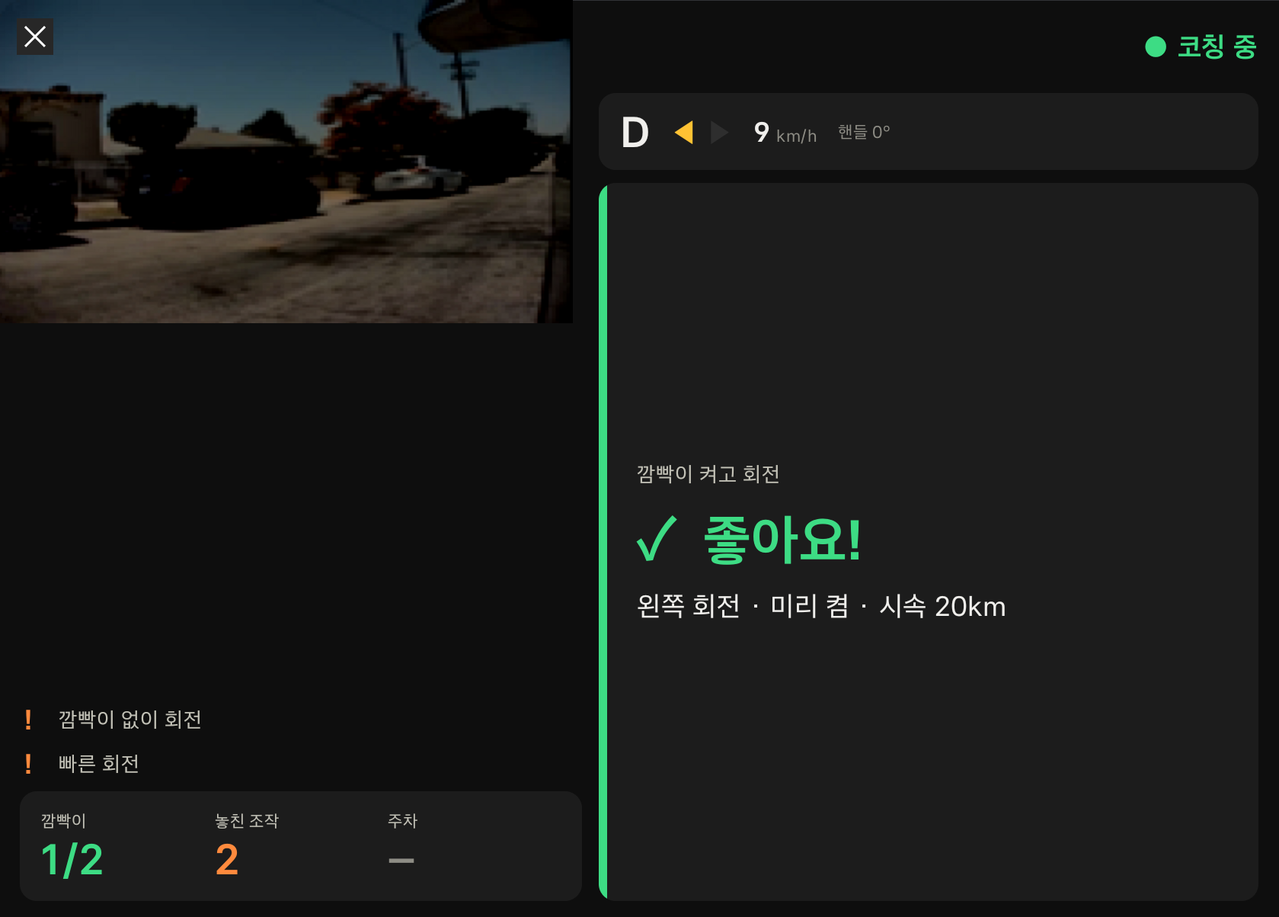
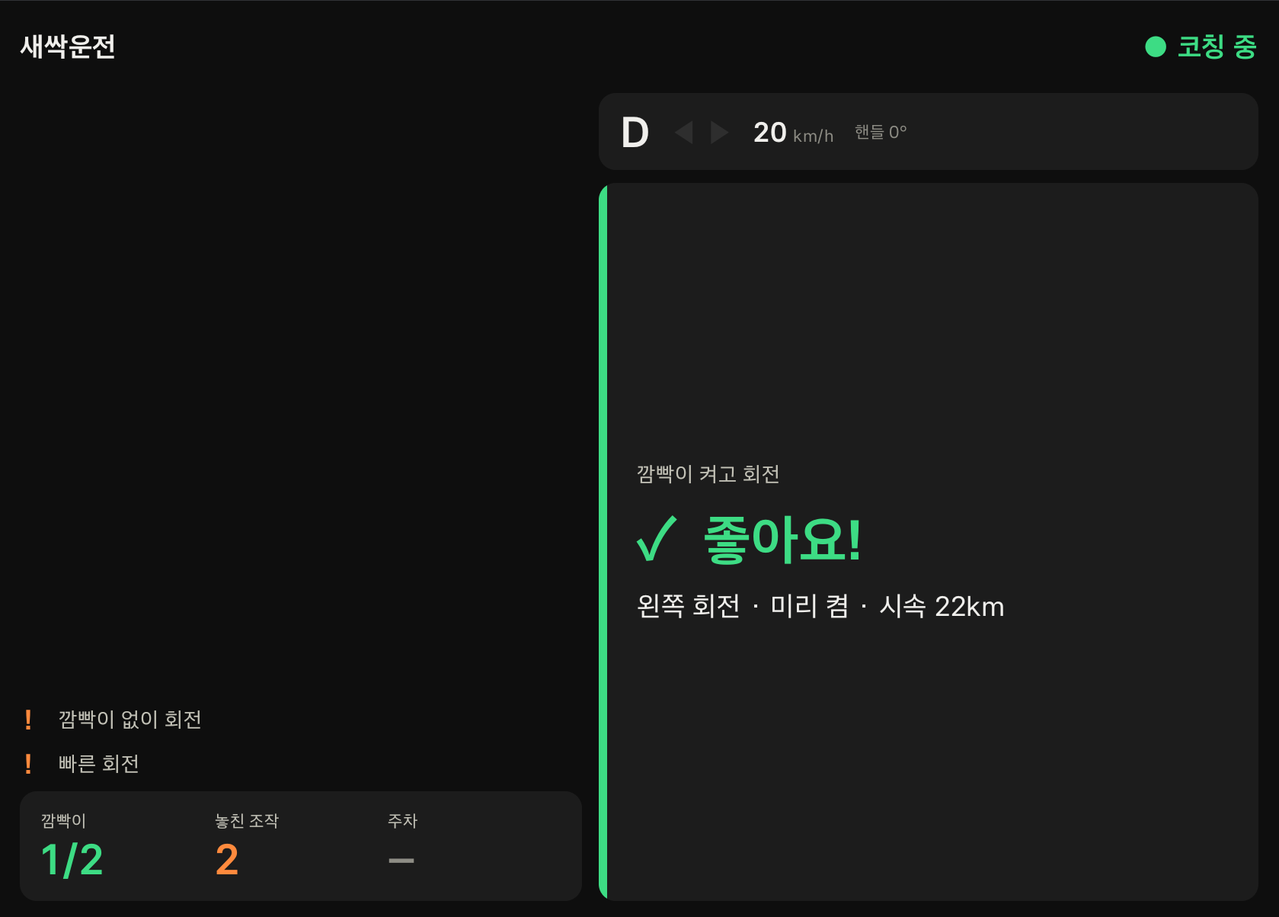
docs: new app name, APK location, application text and screenshots

diff --git a/docs/contest/접수양식-02-앱소개.md b/docs/contest/접수양식-02-앱소개.md
@@ -1,151 +1,116 @@
-# 접수양식 02 · 앱 프로젝트 소개 (초보운전 코치)
+# 접수양식 02 · 앱 프로젝트 소개 (새싹운전)
 
-> 접수양식 사본(`contest-application-초보운전코치.docx`)의 02번 항목에 들어간 내용과 같습니다.
+> 접수양식 사본(`contest-application-새싹운전.docx`)의 02번 항목에 들어간 내용과 같습니다.
 
 ## 1. 앱 한 줄 소개
 
-연수가 끝나 혼자 운전하는 초보 운전자에게, 폰으로는 알 수 없는 깜빡이·기어·핸들 조작을 차가 직접 보고 그 순간 음성으로 알려주며, 실력이 느는 과정을 숫자로 보여주는 차량 전용 운전 코치입니다.  
+연수가 끝나 혼자 운전하는 초보에게, 깜빡이·기어·핸들 조작을 차가 직접 보고 그 자리에서 말해 주는 운전 코치입니다.
 
 ## 2. 기획 배경
 
-**■ 주목한 고객: 연수가 끝난 초보 운전자**  
-- 2023년 한 해 약 88만 명이 운전면허를 새로 땄고, 그중 생애 첫 취득자가 약 57만 명입니다(전국자동차운전전문학원연합회·경찰청, 세계일보 2024.11.4 보도).  
-- 도로연수는 10시간에 평균 58만 원이 듭니다(경찰청 발표, SBS Biz 2025.12.2 보도). 대부분 몇 시간으로 끝나고, 그 뒤에는 혼자 운전합니다.  
+[주목한 고객]  
+2023년에 운전면허를 처음 딴 사람은 약 57만 명입니다(경찰청·전국자동차운전전문학원연합회, 세계일보 2024.11.4). 도로연수는 10시간에 평균 58만 원이 들고(경찰청, SBS Biz 2025.12.2), 대부분 그 몇 시간으로 끝납니다. 그 뒤로는 혼자 탑니다.
 
-**■ 불편한 순간**  
-- 옆자리에 봐줄 사람이 없으면 내가 무엇을 틀리는지 알 수 없습니다. 깜빡이를 안 켜고 돌았는지, 차선을 바꾼 뒤 켠 채로 달렸는지 본인은 모릅니다.  
-- 가장 어려워하는 주차는 실력이 느는지 가늠할 기준이 없습니다. "오늘은 좀 나았나?" 하는 느낌뿐입니다.  
-- 내리는 순간에는 신경이 분산되어, 기어를 P에 놓지 않거나 창문을 연 채 내리는 실수가 생깁니다.  
+[불편한 순간]  
+혼자 타면 내가 뭘 틀리는지 알 길이 없습니다. 깜빡이 없이 돌았는지, 차선을 바꾸고도 깜빡이를 켠 채 달렸는지 본인은 모릅니다. 주차는 늘고 있는지조차 가늠이 안 됩니다. 내릴 때는 정신이 없어서 기어를 P에 두지 않거나 창문을 열어 둔 채 내리기도 합니다.
 
-**■ 기존 수단으로 해결되지 않는 이유**  
-- 폰 내비의 운전 점수: GPS 속도와 급가속만 봅니다. 초보의 실수는 조작에서 나오는데, 깜빡이·기어·핸들 신호는 폰에 존재하지 않습니다.  
-- 영상 블랙박스: 차 바깥을 찍을 뿐 운전자의 조작은 기록하지 않습니다.  
-- 차량 기본 경고: 그 순간만 알리고 사라집니다. 쌓이지 않아 실력 변화를 보여주지 못합니다.  
-- 연수 강사·가족 동승: 조작을 전부 봐주지만 시간과 비용이 들고, 계속 함께 탈 수 없습니다.  
+[기존 수단의 한계]  
+지금 있는 수단으로는 이 틈이 메워지지 않습니다.
+- 내비 앱의 운전 점수는 GPS 속도와 급가속만 봅니다. 초보의 실수는 조작에서 나오는데 깜빡이·기어·핸들 신호는 폰에 없습니다.
+- 차의 경고는 그 순간만 울리고 사라져서, 실력이 늘었는지 보여주지 못합니다.
+- 옆에서 봐 줄 강사나 가족은 연수가 끝나면 없습니다.
 
-**■ 왜 해결이 필요한가**  
-운전은 혼자 반복하며 익히는데, 반복하는 동안 피드백이 전혀 없습니다. 잘못된 습관이 그대로 굳기 쉬운 시기에, 차가 가진 신호만으로 "연수 이후의 연수"를 비용 없이 이어갈 수 있습니다.  
+[왜 필요한가]  
+습관이 굳는 시기에 피드백이 끊기는 것이 문제라고 봤습니다. 필요한 신호는 차가 이미 다 갖고 있으니, 그것만으로 연수 이후의 연수를 이어 갈 수 있습니다.
 
 ## 3. 앱 주요 기능 및 차량 특화 요소
 
-**■ 핵심 기능 (모든 지표가 차량 신호로만 측정됩니다)**  
-① 깜빡이 코칭 [조향각 + 깜빡이]: 회전할 때 깜빡이를 제때 켰는지(제때 / 늦음 / 없음) 판정합니다. 잘한 회전도 기록해 "회전 6번 중 5번 제때"라는 비율을 냅니다.  
-② 깜빡이·상향등 켜둔 채 주행 [깜빡이 + 상향등 + 조향각 + 차량 속도]: 차선 변경 뒤 10초 이상 깜빡이를 켠 채 직진하면 "왼쪽 깜빡이가 켜져 있어요", 상향등을 켠 채 30초 이상 달리면 "상향등이 켜져 있어요"라고 음성으로 알립니다.  
-③ 후진 주차 코칭 [기어 + 조향각 + 차량 속도]: 후진 기어를 넣은 순간부터 P단까지 기어를 바꾼 횟수, 핸들을 되감은 횟수, 걸린 시간, 차가 덜 멈춘 채 기어를 바꾼 횟수를 셉니다. 주차가 끝나면 "주차 완료. 기어를 3번 바꿨어요. 평소 5번보다 줄었어요"라고 본인의 최근 평균과 비교해 말합니다.  
-④ 속도 코칭 [조향각 + 기어 + 차량 속도]: 핸들을 크게 돌리는 동안 시속 30km 이상이면 "빠른 회전"으로 기록합니다. 후진 속도가 시속 7km 이상이면 "후진이 빨라요. 천천히 가세요"라고 알립니다.  
-⑤ 출발·하차 체크 [안전벨트 + 기어 + 문 + 창문 + 전조등]: 벨트를 매지 않았거나 문이 열린 채 움직이기 시작하면 기록합니다(문은 "운전석 문이 열려 있어요"라고 음성으로도 알림). P단이 아닌데 운전석 문을 열면 "기어가 P가 아니에요. P에 놓고 내리세요", 창문을 연 채 내리면 "조수석 창문이 열려 있어요"라고 알립니다.  
+[핵심 기능]  
+모든 판단을 차량 신호로만 합니다. 운전자가 켜거나 누를 것이 없습니다.
 
-**■ 화면 4개**  
-- 실시간 코칭(주행 중): 누를 것이 없는 화면입니다. 코치가 보고 있는 신호 한 줄(기어·깜빡이·속도·핸들), 방금 본 조작 한 문장, 이번 주행 숫자 3개만 큰 글자로 보여줍니다. 새 코칭 문장은 8초 뒤 목록으로 내려갑니다.  
-- 주행 코칭(정차 중): 방금 주행에서 "다음 주행에서 해볼 것" 한 가지와 큰 숫자 6개(깜빡이, 회전 속도, 켜둔 채 주행, 후진 주차, 후진 속도, 출발·하차 체크).  
-- 성장 기록: 지표 6개의 12주 변화. 다른 운전자가 아니라 지난주의 나와 비교합니다.  
-- 자주 놓치는 곳: 놓친 조작을 장소별로 묶어 "시청 사거리에서 회전 72번 중 34번만 제때"처럼 보여줍니다.  
+- 깜빡이: 회전할 때 제때 켰는지(제때/늦음/없음) 봅니다. 잘한 회전도 세기 때문에 "6번 중 5번 제때" 같은 비율이 나옵니다. 차선을 바꾼 뒤 10초 넘게 켠 채 달리면 "왼쪽 깜빡이가 켜져 있어요"라고 말합니다.
+- 후진 주차: 후진 기어를 넣은 순간부터 P단까지 기어를 몇 번 바꿨는지, 핸들을 몇 번 되감았는지 셉니다. 끝나면 "주차 완료. 기어를 3번 바꿨어요. 평소 5번보다 줄었어요"처럼 본인 평균과 비교해 알려줍니다.
+- 속도: 핸들을 크게 돌리는 동안 시속 30km를 넘으면 빠른 회전으로 기록합니다. 후진이 시속 7km를 넘으면 "후진이 빨라요. 천천히 가세요"라고 말합니다.
+- 타고 내릴 때: P단이 아닌데 운전석 문을 열면 "기어가 P가 아니에요", 창문을 연 채 내리면 "조수석 창문이 열려 있어요"라고 알립니다. 벨트를 안 맸거나 문이 열린 채 출발한 것도 기록합니다.
+- 상향등: 켠 채로 30초 넘게 달리면 알려줍니다.
 
-**■ 모바일 대비 차량만의 가치**  
-- 측정 불가능한 지표: 깜빡이·상향등 상태, 기어 위치, 조향각, 안전벨트, 문·창문 상태는 폰 센서로 얻을 수 없습니다. 속도도 GPS가 아니라 차량 속도 신호를 써서 지하주차장에서 끊기지 않습니다.  
-- 조작 사이의 시간 관계: "핸들을 돌리기 몇 초 전에 깜빡이를 켰는가", "후진부터 P단까지 기어를 몇 번 바꿨는가"는 차량 신호를 시간순으로 엮어야 계산됩니다.  
-- 켤 필요가 없음: 기어가 P에서 벗어나면 코칭이 시작되고 내리면 끝납니다. 폰을 거치하거나 앱을 실행하지 않아도 됩니다.  
+[화면 구성]  
+화면은 네 가지입니다. 달리는 동안에는 누를 것이 없는 화면 하나만 뜨고, 방금 본 조작 한 문장과 이번 주행 숫자 세 개가 전부입니다. 차를 세우면 방금 주행의 요약과 다음에 해 볼 것 한 가지, 지표별 12주 변화, 자주 놓치는 장소를 볼 수 있습니다.
 
-**■ 주행·정차 맥락과의 결합**  
-- 주행 중: 음성 한 문장과 한눈에 보는 화면. 음성은 한 사건에 한 번, 회전 중에는 말하지 않습니다. 화면에는 누를 것이 없습니다.  
-- 주차 직후·하차 순간: 운전자가 가장 받아들이기 쉬운 순간에 결과를 말합니다.  
-- 정차 중: 큰 글자와 큰 버튼으로 한눈에 보는 요약. 차가 주지 않는 신호에 의존하는 지표는 0이 아니라 "이 차량에서 측정할 수 없음"으로 표시합니다.  
+[차량이어야 하는 이유]  
+폰 앱으로는 안 되는 이유가 세 가지 있습니다.
+- 깜빡이·상향등·기어·조향각·벨트·문·창문 상태는 폰 센서로 얻을 수 없습니다.
+- "핸들을 돌리기 몇 초 전에 깜빡이를 켰는가"처럼 조작 사이의 시간 관계는 차량 신호를 엮어야 나옵니다.
+- 켤 필요가 없습니다. 기어를 P에서 빼면 시작하고, 내리면 끝납니다.
 
-**■ 새로운 경험**  
-점수나 등수로 평가받는 것이 아니라, 혼자 운전해도 옆자리에 코치가 있는 것처럼 그때그때 한마디를 듣고, 몇 주 뒤 숫자로 늘어난 실력을 확인합니다.  
+[코칭 원칙]  
+점수나 등수는 매기지 않습니다. 비교 대상은 지난주의 나입니다.
 
 ## 4. 주요 사용 시나리오
 
-**■ 사용자: A씨(26세). 면허를 딴 지 3개월, 첫 직장에 차로 출퇴근을 시작했습니다. 연수는 10시간으로 끝났습니다.**  
+[사용자]  
+A씨(26세)는 면허를 딴 지 석 달 됐고, 첫 직장에 차로 출퇴근을 시작했습니다.
 
-① 출근길 (주행 중, 음성과 한눈에 보는 화면)  
-- 시동을 걸고 기어를 D에 놓으면 별도 조작 없이 코칭이 시작됩니다.  
-- 사거리에서 깜빡이 없이 시속 34km로 우회전합니다. 회전 중에는 방해하지 않고 "깜빡이 없이 회전"과 "빠른 회전"으로 기록만 합니다.  
-- 차선을 바꾼 뒤 깜빡이를 끄지 않고 달립니다. 10초 뒤 "왼쪽 깜빡이가 켜져 있어요" → 바로 끕니다.  
+[출근길]  
+기어를 D에 넣으면 코칭이 시작됩니다. 사거리에서 깜빡이 없이 시속 34km로 우회전합니다. 코치는 회전 중에는 말을 걸지 않고 기록만 합니다. 차선을 바꾼 뒤 깜빡이를 끄지 않고 달리자 10초 뒤 "왼쪽 깜빡이가 켜져 있어요"가 나오고, A씨는 바로 끕니다.
 
-② 회사 주차장 (주차·하차 순간)  
-- 자리를 찾고 급한 마음에 D단인 채로 문을 엽니다. "기어가 P가 아니에요. P에 놓고 내리세요"  
-- 급하게 후진을 시작합니다. "후진이 빨라요. 천천히 가세요"  
-- 후진 → 다시 전진 → 후진으로 주차를 마칩니다. "주차 완료. 기어를 3번 바꿨어요. 평소 5번보다 줄었어요"  
-- 조수석 창문을 연 채 내리려 합니다. "조수석 창문이 열려 있어요"  
+[회사 주차장]  
+급한 마음에 D단인 채로 문을 엽니다. "기어가 P가 아니에요. P에 놓고 내리세요." 후진을 서두르자 "후진이 빨라요. 천천히 가세요." 앞뒤로 세 번 움직여 주차를 마치면 "주차 완료. 기어를 3번 바꿨어요. 평소 5번보다 줄었어요." 창문을 연 채 내리려 하자 "조수석 창문이 열려 있어요."
 
-③ 퇴근 전 (정차 중, 화면)  
-- 주행 코칭 화면에 오늘 아침 요약이 떠 있습니다. 깜빡이 1/2, 빠른 회전 1번, 후진 주차 3번, 그리고 "다음 주행에서 해볼 것: 내리기 전에 기어가 P인지 먼저 확인하세요."  
+[퇴근 전]  
+화면에 아침 주행 요약이 떠 있습니다. 깜빡이는 2번 중 1번, 빠른 회전 1번, 주차 기어 변경 3번. 다음에 해 볼 것은 한 가지입니다. "내리기 전에 기어가 P인지 먼저 확인하세요."
 
-④ 주말 (정차 중, 화면)  
-- 성장 기록에서 깜빡이 제때 켠 비율이 12주 동안 57% → 92%, 주차 기어 변경이 6.4번 → 1.6번으로 바뀐 것을 확인합니다(시연용 예시 데이터 기준).  
-- 자주 놓치는 곳에서 시청 사거리 우회전을 유독 자주 놓친다는 것을 알게 되고, 다음 주에는 그곳만 신경 쓰기로 합니다.  
-
-**■ 이용 흐름 요약**  
-타면 자동 시작 → 주행 중 필요한 순간에만 음성, 화면은 한눈에 → 주차·하차 순간 결과 안내 → 정차 중 요약과 "해볼 것 한 가지" → 주 단위로 성장 확인  
+[주말]  
+성장 기록을 보니 12주 사이 깜빡이를 제때 켠 비율이 57%에서 92%로, 주차 기어 변경이 6.4번에서 1.6번으로 바뀌었습니다(시연용 예시 데이터). 자주 놓치는 곳에는 시청 사거리가 떠 있습니다. 다음 주에는 거기만 신경 쓰기로 합니다.
 
 ## 5. 개발 계획
 
-**■ 현재 상태: 동작하는 MVP 구현 완료**  
-Pleos Connect 에뮬레이터(v2.1)와 Vehicle SDK 2.3.2에서 핵심 기능이 실제 SDK 신호 경로로 동작합니다. Virtual Console로 주입한 깜빡이·상향등·기어·조향·차량 속도·문·창문 신호가 SDK 콜백으로 들어와 감지와 음성 안내까지 이어지는 것을 확인했고, 감지·코칭 로직에는 단위 테스트 69개가 있습니다.  
+[현재 상태]  
+핵심 기능은 구현을 마쳤습니다. Pleos Connect 에뮬레이터(v2.1)와 Vehicle SDK 2.3.2에서, Virtual Console로 넣은 신호가 SDK 콜백으로 들어와 감지와 음성 안내까지 이어지는 것을 확인했습니다. 감지와 코칭 로직에는 단위 테스트 69개가 있습니다.
 
-**■ SDK/API 사용 (읽기 권한만 사용, 차량 제어 없음)**  
-- 깜빡이: Vehicle.getTurnSignal().registerTurnSignalState [CAR_LIGHTS]  
-- 기어: getGear().registerGearSelection / getCurrentGearSelectionState [CAR_DRIVE]  
-- 조향각: getSteeringWheel().registerSteeringWheelAngle [CAR_DRIVE]  
-- 문: getDoor().registerDoorPosition (좌석별) [CAR_DOORS]  
-- 창문: getWindow().registerWindowPosition (좌석별) [CAR_WINDOWS]  
-- 전조등·상향등: getLight().registerLowBeamLightState / getLowBeamLightSwitch / registerHighBeamLightState [CAR_LIGHTS]  
-- 안전벨트: getSeat().registerSeatBeltBuckledState (운전석) [CAR_SEATS]  
-- 차량 속도: AAOS CarPropertyManager의 PERF_VEHICLE_SPEED [android.car.permission.CAR_SPEED]. 받을 수 없을 때만 GPS 속도로 대신합니다.  
-- 음성 안내: Pleos TextToSpeech(온디바이스), 실패 시 안드로이드 기본 TTS로 자동 전환 [TTS_SERVICE]  
-- 위치: 플랫폼 위치 서비스 (자주 놓치는 곳 묶기)  
+[사용 API]  
+읽기 권한만 쓰고 차량 제어는 하지 않습니다.
+- Vehicle SDK: 깜빡이, 기어, 조향각, 문, 창문, 전조등·상향등, 운전석 벨트 [CAR_LIGHTS, CAR_DRIVE, CAR_DOORS, CAR_WINDOWS, CAR_SEATS]
+- 차량 속도: AAOS CarPropertyManager의 PERF_VEHICLE_SPEED [CAR_SPEED]. 받지 못할 때만 GPS 속도로 대신합니다.
+- 음성: Pleos TextToSpeech 온디바이스 [TTS_SERVICE]
+- 위치: 플랫폼 위치 서비스. 놓친 조작을 장소별로 묶는 데 씁니다.
 
-**■ 구조**  
-Vehicle SDK + 차량 속도 → 신호 통합(CarState, 0.25초 샘플링) → 감지 엔진(순수 로직) → 기록(기기 내 SQLite) → 화면 4개  
-감지 엔진 → 코칭 문장 생성 → TTS  
-- 감지 기준값(회전 조향각, 주차 판정 속도 등)은 한 파일에 모아 차종별로 보정할 수 있게 했습니다.  
-- 기록은 차량 안에만 저장하고 서버로 보내지 않습니다. 운전자 프로필별로 분리됩니다.  
-- Kotlin, Jetpack Compose. 화면은 큰 글자·큰 터치 영역이고, 주행 중 화면에는 누를 것을 두지 않았습니다.  
+[구조]  
+신호를 0.25초마다 한 상태로 모으고, 감지 엔진이 그 흐름을 읽어 기록을 남기고, 기록에서 코칭 문장을 만들어 말합니다. 감지 엔진은 안드로이드에 기대지 않는 순수 로직이라 테스트하기 쉽습니다. 기준값(회전 조향각, 속도 등)은 한 파일에 모아 두어 차종별로 보정할 수 있습니다. 기록은 차 안에만 저장하고 서버로 보내지 않습니다.
 
-**■ 개발 범위와 일정**  
-- 1단계(완료): 감지 9종(깜빡이 시점, 깜빡이·상향등 켜둠, 후진 주차와 덜 멈춘 변속, 빠른 회전, 빠른 후진, 출발 점검, P단 아님, 하차 점검), 음성 코칭, 화면 4개, 시동 시 자동 시작, 시연 스크립트  
-- 2단계(본선 전): 실차 주행 로그로 감지 기준값 보정, 음성 빈도 조절 설정  
-- 3단계: 전면 주차 감지, 야간 전조등 미점등, 단계별 연습 과제(주차 → 차선 변경 → 야간)  
-- 4단계: Gleo AI 음성 대화로 코칭 요청("오늘 주차 어땠어?"), 내비 경로와 깜빡이 시점 비교 — SDK 제공 범위 확인 후 적용  
+[일정]  
+- 완료: 감지 9종, 음성 코칭, 화면 4개, 시동 시 자동 시작, 시연 스크립트
+- 본선 전: 실차 주행 로그로 기준값 보정, 음성 빈도 설정
+- 그다음: 전면 주차, 야간 전조등, 단계별 연습 과제. Gleo AI 음성 대화("오늘 주차 어땠어?")와 내비 경로 연동은 SDK 제공 범위를 확인한 뒤 붙입니다.
 
-**■ 한계와 대응**  
-- 현재 검증은 에뮬레이터 기준이며 실차 보정이 남아 있습니다.  
-- 성장 기록 화면의 12주 추이는 시연용 예시 데이터입니다.  
-- 주차 지표는 후진 주차만 봅니다.  
-- 안전벨트 신호는 SDK 수신만 확인했습니다. 에뮬레이터에서는 값을 바꿀 수 없어 시연에는 넣지 않았습니다.  
-- 상향등은 어두운 빈 도로에서는 정상 사용이라, 켤 때마다 한 번만 알립니다.  
+[한계]  
+지금까지의 검증은 에뮬레이터 기준이고 실차 보정이 남아 있습니다. 성장 기록의 12주 추이는 시연용 예시 데이터입니다. 주차는 후진 주차만 봅니다. 안전벨트는 에뮬레이터에서 값을 바꿀 수 없어 SDK 수신만 확인했습니다.
 
 ## 6. 기대효과 및 발전 가능성
 
-**■ 사용자에게 주는 가치**  
-- 연수가 끝난 뒤에도 비용 없이 피드백이 이어집니다(도로연수는 10시간 평균 58만 원).  
-- 주차처럼 막연하던 실력이 "기어 변경 6.4번 → 1.6번" 같은 숫자로 보여 연습할 이유가 생깁니다.  
-- 깜빡이, P단, 창문처럼 사고·도난으로 이어질 수 있는 실수를 그 순간에 바로잡습니다.  
+[사용자 가치]  
+연수가 끝난 뒤에도 돈을 들이지 않고 피드백을 계속 받습니다. 막연하던 주차 실력이 "기어 변경 6.4번에서 1.6번"처럼 숫자로 보입니다. P단, 창문, 깜빡이처럼 사고나 도난으로 이어질 수 있는 실수는 그 자리에서 바로잡습니다.
 
-**■ 타깃 고객**  
-- 핵심: 면허 취득 2년 이내 초보 운전자. 생애 첫 취득자가 연 약 57만 명이고 그중 약 80%가 10~20대입니다(경찰청, 2023년).  
-- 인접: 오랜만에 다시 운전하는 장롱면허 운전자, 가족 차를 함께 쓰는 초보 가족 구성원  
-- 확장: 새 차로 바꿔 차폭과 조작감이 낯선 운전자(신차 적응 기간), 초보 이용자가 많은 카셰어링  
+[타깃 고객]  
+핵심은 면허를 딴 지 2년이 안 된 초보 운전자입니다. 생애 첫 취득자가 한 해 약 57만 명이고 그중 80%가량이 10~20대입니다(경찰청, 2023년). 오랜만에 운전대를 잡는 장롱면허 운전자와 가족 차를 같이 쓰는 초보가 그다음이고, 새 차에 적응하는 운전자와 카셰어링 이용자로 넓힐 수 있습니다.
 
-**■ 예상 MAU (가정을 밝힌 추정)**  
-계산식: 국내 Pleos Connect 누적 차량 × 타깃 운전자가 타는 비율 × 설치·활성 비율  
-- 가정 1: 국내 Pleos Connect 누적 차량을 출시 1년차 15만 대, 2년차 40만 대, 3년차 80만 대로 둠(현대차그룹은 2030년까지 약 2,000만 대 적용을 목표로 밝힘. 국내 연차별 대수는 자체 가정)  
-- 가정 2: 핵심 타깃(초보·장롱면허·초보 가족)이 타는 차량 10%, 그중 설치·월 활성 30%  
-- 가정 3: 확장 타깃(신차 적응·주차 코칭)에서 전체 차량의 5%가 추가로 활성(2년차부터)  
-- 결과: 1년차 약 0.5만 명 → 2년차 약 3만 명 → 3년차 약 6만 명  
+[예상 MAU]  
+가정을 밝힌 추정입니다. 국내 Pleos Connect 누적 차량을 1년차 15만, 2년차 40만, 3년차 80만 대로 두고(자체 가정), 그중 10%를 핵심 타깃이 타며 30%가 설치해 매달 쓴다고 보면 1년차 약 0.5만 명입니다. 2년차부터 신차 적응과 주차 코칭 수요로 전체 차량의 5%가 더해진다고 보면 2년차 약 3만, 3년차 약 6만 명입니다.
 
-**■ Retention 목표와 근거**  
-- 목표: 설치 후 1개월 60%, 3개월 40%, 6개월 30%  
-- 켤 필요가 없어 이탈 계기가 적습니다. 타면 시작되고, 주차할 때마다 결과를 듣습니다.  
-- 매주 숫자가 바뀌는 성장 기록이 다시 열어볼 이유가 됩니다.  
-- 졸업 이탈 대응: 실력이 늘어 코칭이 줄어들면 "자주 놓치는 곳"과 하차 체크처럼 익숙해져도 쓸모 있는 기능 중심으로 바뀌고, 새 과제(전면 주차, 야간, 고속도로 차선 변경)를 제안합니다.  
+[Retention]  
+목표는 설치 후 1개월 60%, 3개월 40%, 6개월 30%입니다. 따로 켤 필요가 없어 그만둘 계기가 적고, 주차할 때마다 결과를 듣고, 성장 기록 숫자가 매주 바뀝니다. 실력이 늘어 코칭할 것이 줄어도 자주 놓치는 곳과 하차 점검은 계속 쓸모가 있고, 전면 주차나 야간 주행 같은 새 과제를 제안할 수 있습니다.
 
-**■ 서비스 확대 계획**  
-- 1단계 개인: 무료 코칭으로 사용자 확보. 단계별 연습 과제와 장기 리포트는 유료 구독으로 검토  
-- 2단계 가족: 본인이 동의한 요약을 가족에게 공유(자녀의 첫 운전을 걱정하는 부모)  
-- 3단계 제휴: 운전학원(연수 후 사후 관리 상품), 카셰어링(초보 이용자 안전 프로그램), 보험사(초보 운전자의 조작 개선 실적 기반 할인)  
-- 4단계 차종·지역 확대: Pleos Connect 적용 차종과 해외 시장으로 확대. 감지 기준값만 차종별로 보정하면 같은 엔진을 씁니다.  
+[확대 계획]  
+먼저 개인에게 무료로 제공해 사용자를 모으고, 단계별 연습 과제와 장기 리포트는 유료 구독을 검토합니다. 다음은 가족입니다. 본인이 동의한 요약을 부모에게 공유합니다. 그 뒤 운전학원(연수 후 관리), 카셰어링(초보 안전 프로그램), 보험사(조작 개선 실적 기반 할인)와 제휴하고, 적용 차종과 해외 시장으로 넓힙니다. 기준값만 차종별로 보정하면 같은 엔진을 그대로 씁니다.
 
-**■ 플랫폼 관점의 효과**  
-"차량 신호가 있어야만 가능한 앱"의 사례로서, Pleos 앱 마켓에 운전 초기 사용자를 끌어들이는 진입 앱이 될 수 있습니다.  
+[플랫폼 효과]  
+차량 신호가 있어야만 되는 앱의 사례로서, Pleos 앱 마켓이 운전을 막 시작한 사용자를 끌어들이는 입구가 될 수 있습니다.
+
+## 7. 참고자료
+
+[개발 결과물]  
+모두 Pleos Connect 에뮬레이터에서 실제로 동작하는 결과물입니다.
+- GitHub 저장소: https://github.com/hyundai-contest/novice-driving-coach
+- APK: 저장소의 apk/성원이와아이들_새싹운전_release.apk (서명된 릴리스 빌드)
+- 시연 영상: demo-video.mp4 (2분 19초, 에뮬레이터 화면 녹화)
+- 앱 실행 화면 4장: 00-실시간코칭.png, 01-주행코칭.png, 02-성장기록.png, 03-자주놓치는곳.png

diff --git a/README.md b/README.md
@@ -1,4 +1,4 @@
-# 초보운전 코치
+# 새싹운전
 
 > **연수가 끝나 혼자 운전하는 초보에게, 차가 직접 조작을 보고 그 순간 알려주는 Pleos Connect 운전 코치 앱.**
 
@@ -6,19 +6,20 @@
 
 | 항목 | 내용 |
 | --- | --- |
-| 앱 이름 | 초보운전 코치 (패키지 `com.example.hyundai_contest`, 버전 1.0) |
+| 앱 이름 | 새싹운전 (패키지 `com.example.hyundai_contest`, 버전 1.0) |
 | 대상 | Pleos Connect(Android Automotive) 차량용 앱 |
-| APK | [Releases](https://github.com/hyundai-contest/novice-driving-coach/releases)의 `초보운전코치-debug.apk` |
-| 시연 영상 | [Releases](https://github.com/hyundai-contest/novice-driving-coach/releases)의 `demo-video.mp4` (에뮬레이터 화면 녹화) |
+| APK | [`apk/성원이와아이들_새싹운전_release.apk`](apk/성원이와아이들_새싹운전_release.apk) |
+| 시연 영상 | [Releases](https://github.com/hyundai-contest/novice-driving-coach/releases)의 `novice-driving-coach-demo.mp4` (에뮬레이터 화면 녹화) |
 | 기획안 | [`docs/contest/접수양식-02-앱소개.md`](docs/contest/접수양식-02-앱소개.md) |
 | 문서 안내 | 설계 [`docs/design.md`](docs/design.md) · 시연 순서 [`demo/README.md`](demo/README.md) |
 
 ## APK 파일 위치
 
-- 받는 곳: **[GitHub Releases](https://github.com/hyundai-contest/novice-driving-coach/releases)** 의 `초보운전코치-debug.apk` (디버그 서명, 약 57.5 MB)
-- APK와 영상은 저장소에 넣지 않습니다(`.gitignore`). 소스에서 빌드하면 `app/build/outputs/apk/debug/app-debug.apk`에 생깁니다.
[1 lines of base64/hex data omitted]
-- 서명: 안드로이드 디버그 키. 릴리스 서명 설정은 아직 없습니다.
+- 저장소 안: **`apk/성원이와아이들_새싹운전_release.apk`** (서명된 릴리스 빌드, 약 41 MB)
+- 바로 받기: https://github.com/hyundai-contest/novice-driving-coach/blob/main/apk/성원이와아이들_새싹운전_release.apk
[1 lines of base64/hex data omitted]
+- 서명 인증서: `CN=Saessak Driving, C=KR`
+- 시연 영상은 용량이 커서 [GitHub Releases](https://github.com/hyundai-contest/novice-driving-coach/releases)에 있습니다.
 
 ## 실행 방법
 
@@ -28,13 +29,13 @@
 2. APK를 설치합니다.
 
    ```bash
-   adb install -r 초보운전코치-debug.apk
+   adb install -r apk/성원이와아이들_새싹운전_release.apk
    ```
 
-3. 앱 목록에서 **초보운전 코치**를 실행하고, 권한 창에서 위치와 차량 속도를 허용합니다.
+3. 앱 목록에서 **새싹운전**을 실행하고, 권한 창에서 위치와 차량 속도를 허용합니다.
 4. 이후에는 앱을 열 필요가 없습니다. 시동(부팅)과 함께 코칭 서비스가 돌고, 기어가 P에서 벗어나면 주행 기록이 시작됩니다. 설치 직후나 강제 종료 뒤에는 앱을 한 번 열어야 자동 시작이 동작합니다(안드로이드 규칙).
 
-기록이 없는 상태에서 화면을 채워 보려면 제목 **"초보운전 코치"를 길게 눌러** 시연 패널을 열고 **12주 데모 기록 불러오기**를 누릅니다.
+기록이 없는 상태에서 화면을 채워 보려면 제목 **"새싹운전"을 길게 눌러** 시연 패널을 열고 **12주 데모 기록 불러오기**를 누릅니다.
 
 ### 2) 소스에서 빌드해 실행 (시연 패널·시연 스크립트 포함)
 
@@ -42,7 +43,8 @@
 
 ```bash
 ./gradlew :app:testDebugUnitTest      # 단위 테스트 (69개)
-./gradlew :app:installDebug           # 에뮬레이터에 설치
+./gradlew :app:installDebug           # 디버그 빌드를 에뮬레이터에 설치
+./gradlew :app:assembleRelease        # 서명된 릴리스 APK (keystore.properties 필요. 없으면 서명 없이 빌드)
 ```
 
 ```bash

diff --git a/docs/design.md b/docs/design.md
@@ -1,4 +1,4 @@
-# 초보운전 코치: 설계 문서
+# 새싹운전: 설계 문서
 
 - 작성일: 2026-11-11
 - 대상: 현대자동차그룹 차량용 앱 개발 공모전 (Pleos Connect, AAOS)
